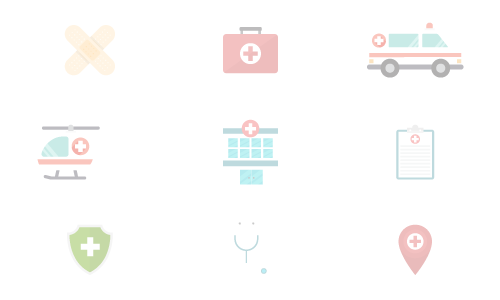
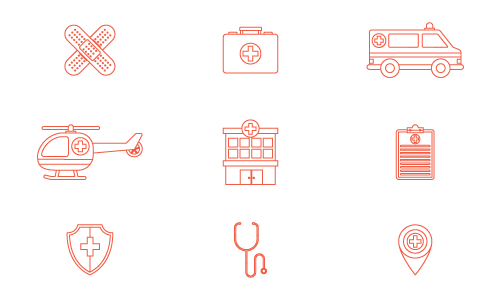
[fix:jeu8] Edit background (outline)

diff --git a/src/games/8/components/game/states/Play.js b/src/games/8/components/game/states/Play.js
@@ -32,9 +32,10 @@ export default class Play extends State {
      */
     create() {
         this.game.controlsEnabled = false;
-        this.game.stage.backgroundColor = '#e1f0f0';
+        this.game.stage.backgroundColor = '#FFFFFF';
         this.tileSprite = this.game.add.tileSprite(0, 0, this.game.world.width, this.game.world.height, "atlas");
         this.tileSprite.tileScale.set(this.game.SCALE * 1.2);
+        this.tileSprite.alpha = 0.3;
         this.initUI();
         PhaserManager.ready('game', 'play');
 
